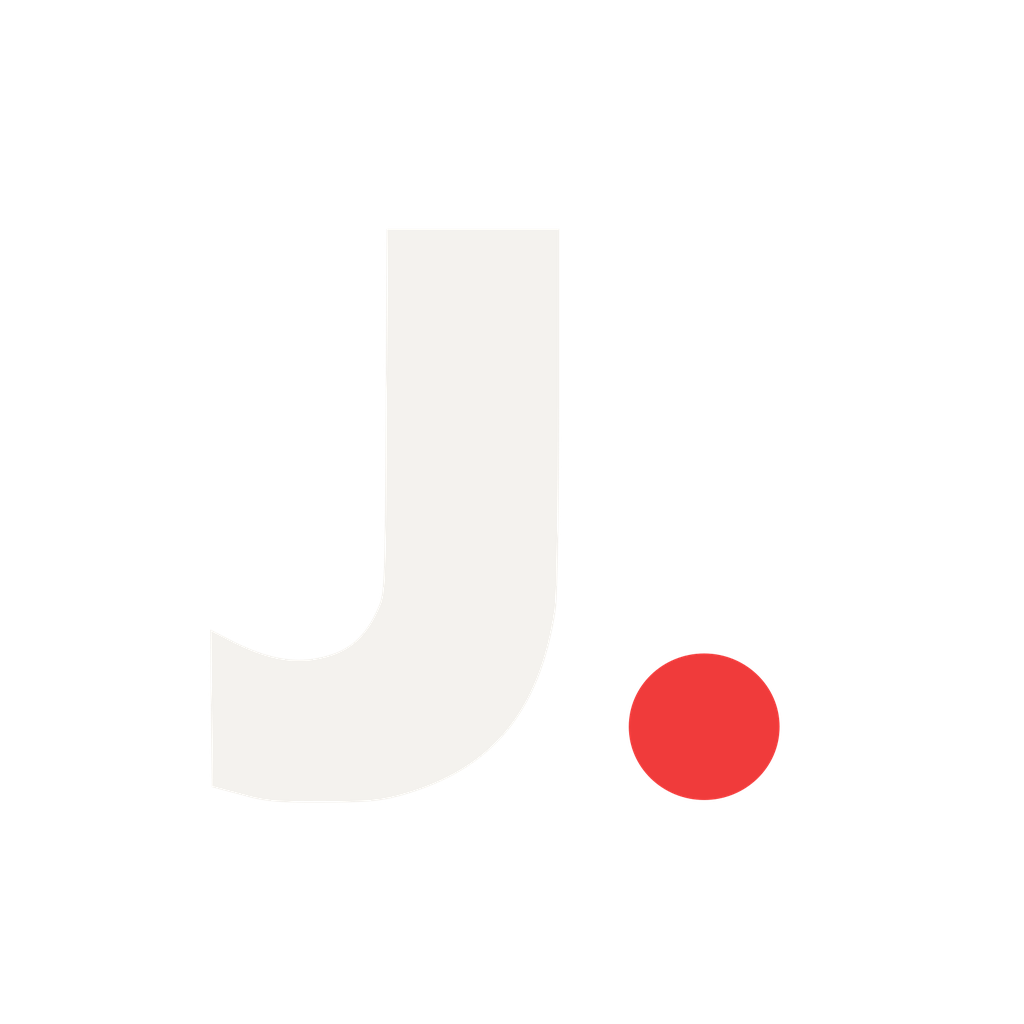
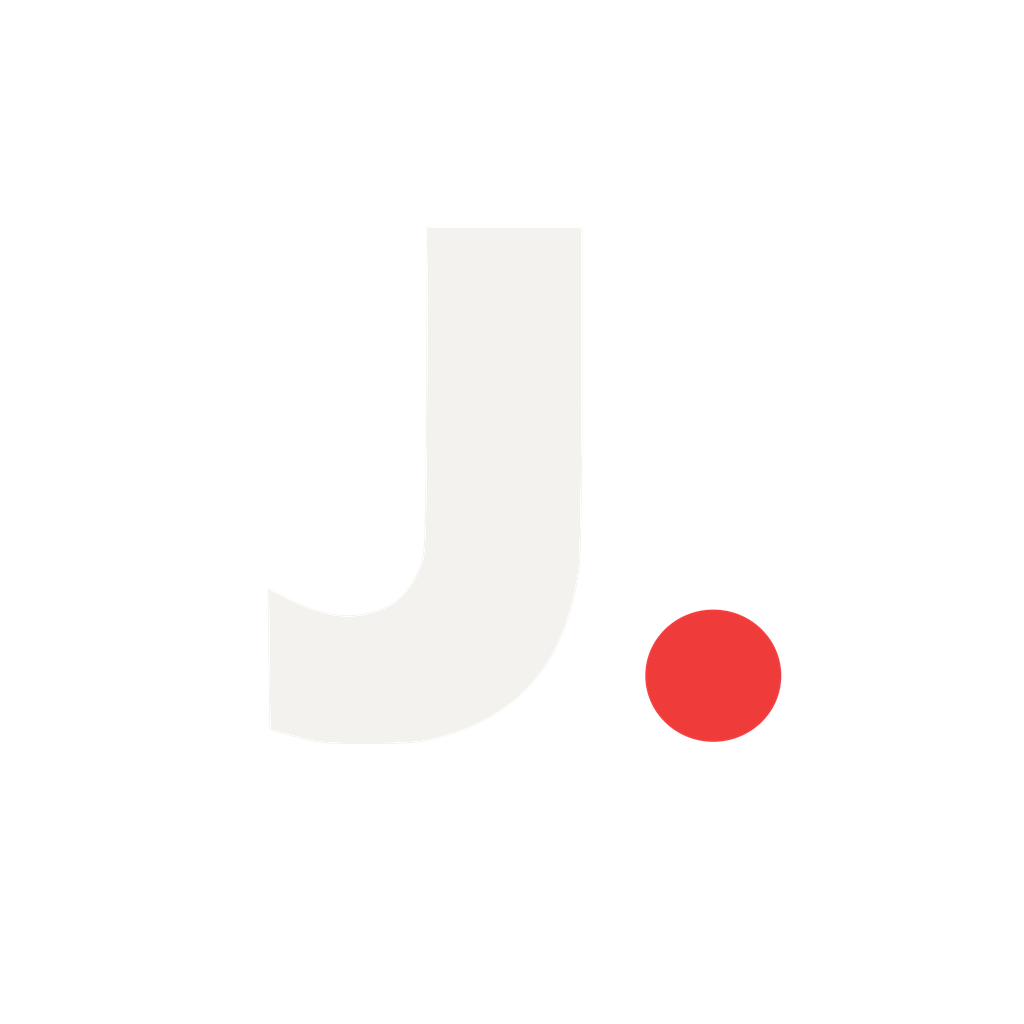
fix(brand): enquadra icone android na zona segura

Changed region(s): [[0.5938, 0.5938, 0.7812, 0.7812]]

diff --git a/mobile/src/screens/core.tsx b/mobile/src/screens/core.tsx
@@ -73,6 +73,7 @@ function toastError(nav: { toast: (message: string) => void }, error: unknown) {
   if (error instanceof ApiError) {
     const map: Record<string, string> = {
       network_unavailable: 'Não foi possível falar com o servidor.',
+      request_timeout: 'O servidor demorou para responder. Tente novamente.',
       region_required: 'Defina sua região antes de entrar na fila.',
       sport_profile_required: 'Escolha uma modalidade no seu perfil.',
       already_queued: 'Você já está em uma fila.',
@@ -99,6 +100,7 @@ function errorDetail(error: unknown): string {
   if (error instanceof ApiError) {
     const map: Record<string, string> = {
       network_unavailable: 'Não foi possível falar com o servidor.',
+      request_timeout: 'O servidor demorou para responder. Tente novamente.',
       invalid_visual_item: 'Item de identidade inválido.',
       visual_item_locked: 'Este item ainda não está liberado.',
       ticket_purchase_disabled: TICKET_PURCHASE_DISABLED_TEXT,

diff --git a/mobile/src/screens/venues.tsx b/mobile/src/screens/venues.tsx
@@ -79,6 +79,7 @@ function toastError(nav: { toast: (message: string) => void }, error: unknown) {
       booking_not_found: 'Reserva não encontrada.',
       forbidden: 'Você não participa deste lobby.',
       network_unavailable: 'Não foi possível falar com o servidor.',
+      request_timeout: 'O servidor demorou para responder. Tente novamente.',
       invalid_transition: 'Esta ação não é válida no estado atual da reserva.',
       cancellation_closed: 'O prazo de cancelamento desta reserva já passou.',
       presence_window_closed: 'O pré-check-in ou a confirmação de presença está fora da janela.',

diff --git a/mobile/src/screens/social.tsx b/mobile/src/screens/social.tsx
@@ -48,6 +48,7 @@ function toastError(nav: { toast: (message: string) => void }, error: unknown) {
   if (error instanceof ApiError) {
     const map: Record<string, string> = {
       network_unavailable: 'Não foi possível falar com o servidor.',
+      request_timeout: 'O servidor demorou para responder. Tente novamente.',
       clan_full: 'Clã cheio.',
       clan_cooldown: 'Aguarde antes de entrar em outro clã.',
       already_friends: 'Vocês já são amigos.',

diff --git a/mobile/src/screens/entrance.tsx b/mobile/src/screens/entrance.tsx
@@ -44,6 +44,7 @@ function errorText(error: unknown): string {
   if (error instanceof ApiError) {
     const messages: Record<string, string> = {
       network_unavailable: 'Não foi possível falar com o servidor.',
+      request_timeout: 'O servidor demorou para responder. Tente novamente.',
       invalid_phone: 'Telefone inválido.',
       rate_limited: 'Muitas tentativas. Aguarde um pouco.',
       invalid_code_or_challenge: 'Código inválido ou expirado.',

diff --git a/mobile/src/screens/email.tsx b/mobile/src/screens/email.tsx
@@ -47,6 +47,7 @@ function emailError(error: unknown): EmailErrorInfo {
   }
   const messages: Record<string, string> = {
     network_unavailable: 'Não foi possível falar com o servidor.',
+    request_timeout: 'O servidor demorou para responder. Tente novamente.',
     invalid_email: 'Informe um e-mail válido.',
     email_domain_not_allowed: 'Este domínio de e-mail não é aceito.',
     invalid_code_or_challenge: 'Código inválido ou expirado.',

diff --git a/docs/BRAND_ASSETS.md b/docs/BRAND_ASSETS.md
@@ -41,7 +41,7 @@ movimento ativa, o fundo fica estático.
 | `mobile/assets/brand/JOGA-wordmark.png` | wordmark completo "JOGA." | transparente | 687 × 183 |
 | `web/public/brand/JOGA-wordmark.png` | cópia do wordmark | transparente | 687 × 183 |
 | `mobile/assets/icon.png` | "J." branco + ponto vermelho | `#0F1214` sólido | 1024 × 1024 |
-| `mobile/assets/android-icon-foreground.png` | "J." centralizado na zona segura (~61%) | transparente | 1024 × 1024 |
+| `mobile/assets/android-icon-foreground.png` | "J." com raio máximo ~327 px na zona segura circular (341,3 px) | transparente | 1024 × 1024 |
 | `mobile/assets/android-icon-background.png` | somente `#0F1214` | sólido | 1024 × 1024 |
 | `mobile/assets/android-icon-monochrome.png` | silhueta de "J." em branco | transparente | 1024 × 1024 |
 | `mobile/assets/splash-icon.png` | "JOGA." completo | transparente | 1024 × 1024 |
@@ -61,8 +61,11 @@ Regras do ícone:
   uma elipse limpa com a mesma proporção medida (47,1 × 45,8 unidades), porque
   no wordmark o ponto encosta na perna do "A".
 - Nada de texto pequeno, sombra ou gradiente dentro do ícone.
-- O foreground do Android usa ~61% do canvas para caber na zona segura da
-  máscara adaptativa. O ícone legado usa ~66%, para leitura a 48 px.
+- A zona segura do adaptive icon é um círculo de 72dp em 108dp: raio de 341,3 px
+  no canvas de 1024. O foreground foi reduzido/reposicionado para raio máximo
+  ~327 px (diâmetro ~654 px); a caixa do desenho tem 550 px de largura, mas o
+  critério é o raio, não a largura do canvas. O ícone legado usa caixa de 676 px
+  (~66% da largura) para leitura a 48 px.
 - O splash tem 920 px de wordmark em um canvas de 1024 px (~5% de margem por
   lado); o plugin usa `imageWidth: 220`, `resizeMode: "contain"` e variante
   `dark` idêntica. O wordmark exibido fica em ~198 px.
@@ -116,7 +119,8 @@ outra fonte de display.
    reconstruído como elipse na proporção medida).
 3. Componha o "J." com o ponto alinhado à base do "J" e recoloque:
    - `icon.png`: 1024 × 1024, fundo `#0F1214`, marca com ~66% da largura;
-   - `android-icon-foreground.png`: 1024 × 1024 transparente, marca com ~61%;
+   - `android-icon-foreground.png`: 1024 × 1024 transparente, marca com raio
+     máximo ~327 px (zona segura de 341,3 px);
    - `android-icon-background.png`: 1024 × 1024 `#0F1214`;
    - `android-icon-monochrome.png`: 1024 × 1024 transparente, silhueta branca;
    - `favicon.png`: 196 × 196, fundo `#0F1214`, marca com ~66%;

diff --git a/harness/build-log.md b/harness/build-log.md
@@ -1621,3 +1621,4 @@ Adicionar abaixo uma entrada por execução concluída ou bloqueada, sem apagar 
   sob trabalho concorrente, fora deste escopo.
 - **Pendente:** validar o splash em build de release em dispositivo Android/iOS
   e conferir a máscara do launcher no aparelho.
+- **Painel (fechamento):** gate concluído — tsc, Prettier e 163/163 testes web verdes.
